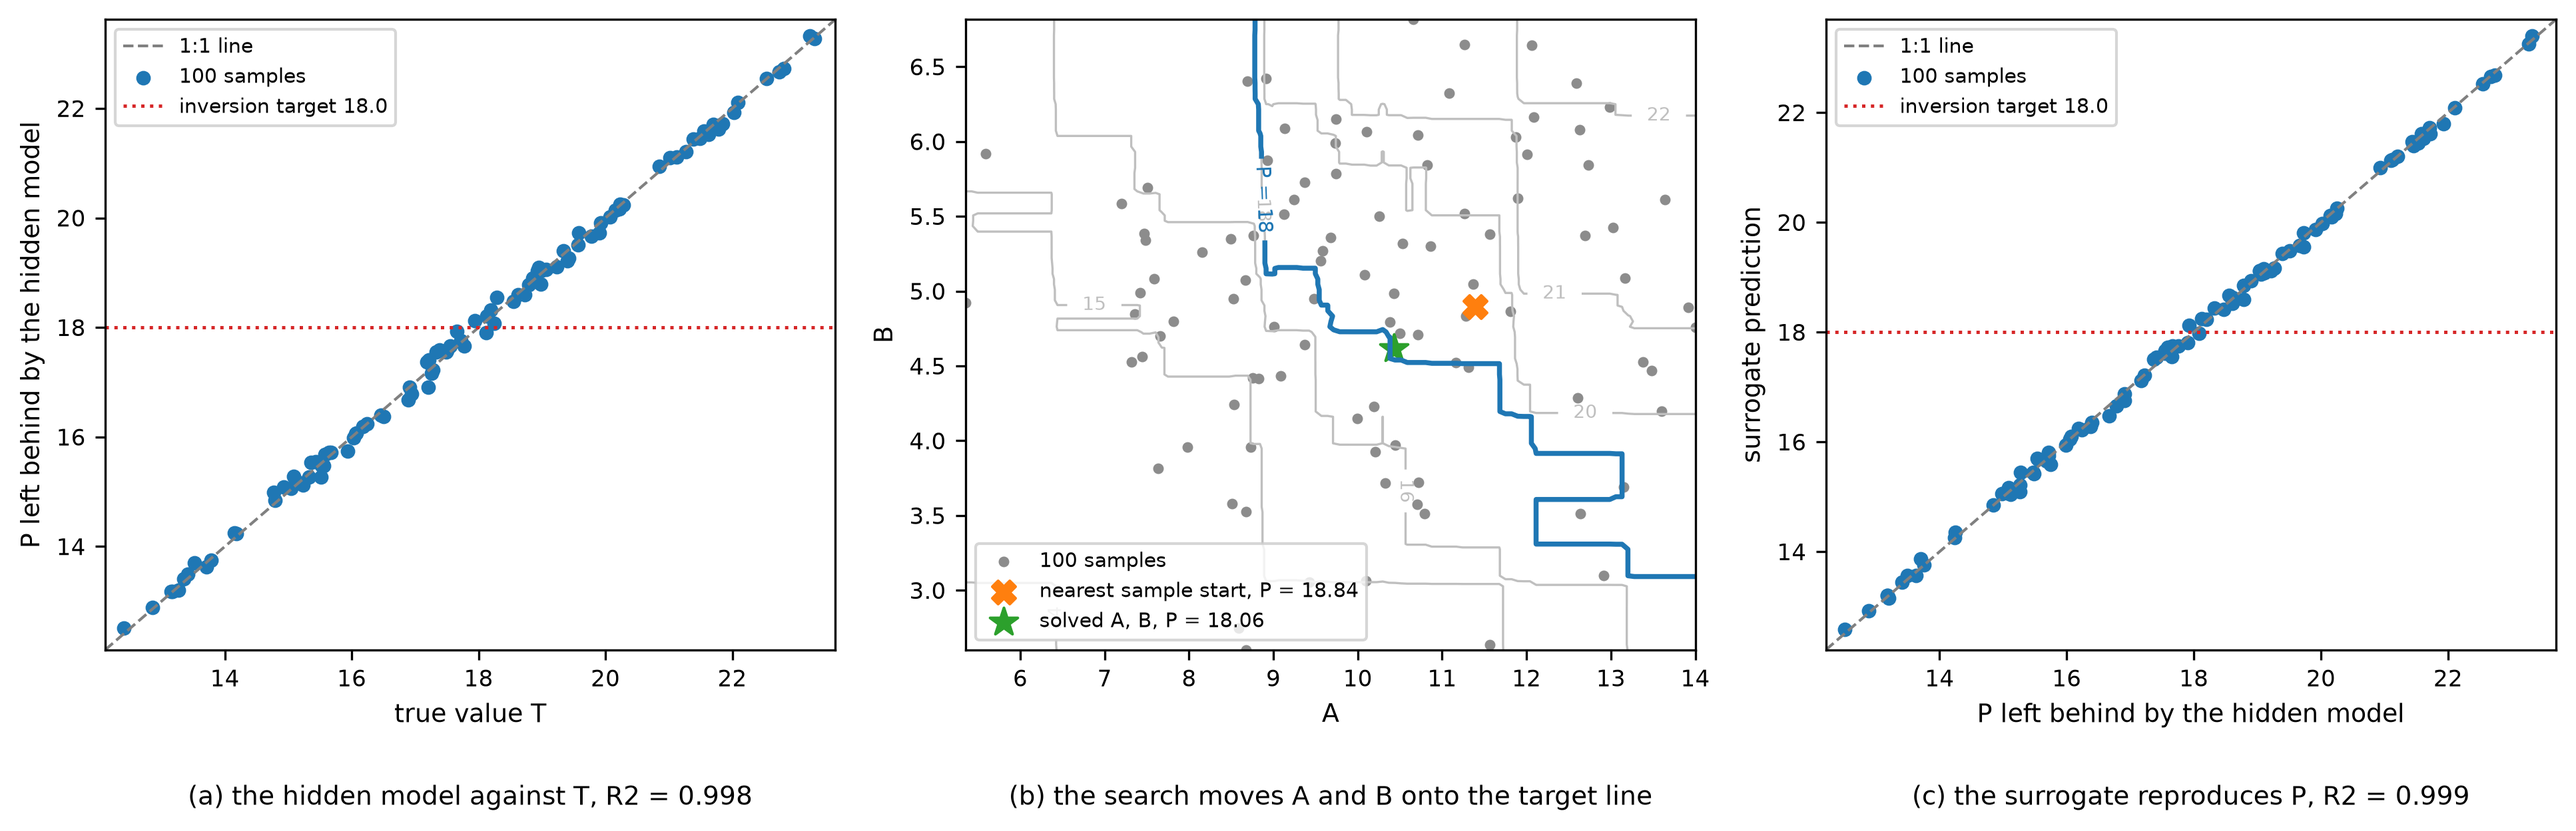
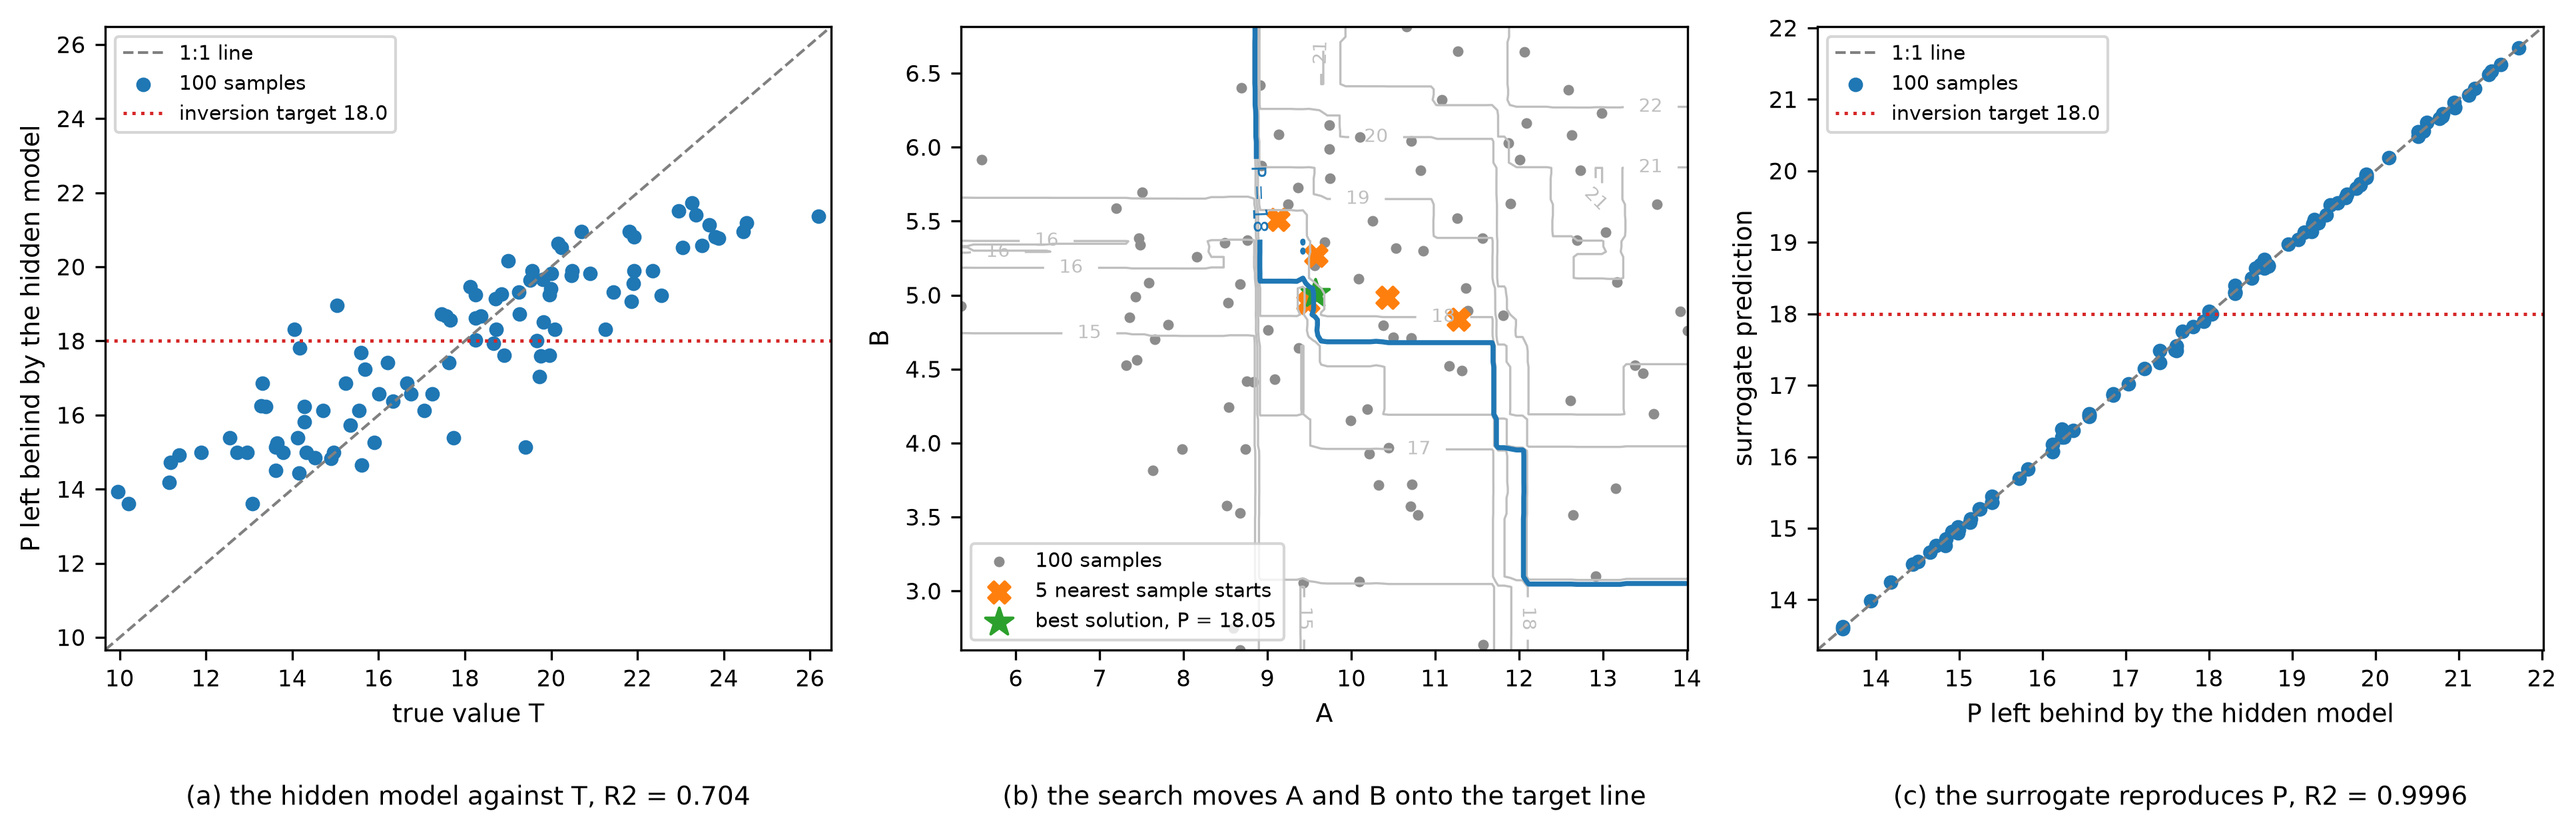
Bring Fig 7 (a) down to R2 = 0.704 and rerun the search
The noise in T goes from 0.6 to 2.5. Noise alone does not move the
number: the default gradient boosting memorises 100 training rows and
still scores 0.96 at any noise level, so the hidden model is also cut
to 20 trees of depth 2 and now fits the signal instead of the noise.
Fig 7 (a) reads 0.704.

P changes, so everything after it was rerun. The single COBYLA start
stalled at P = 18.29: the surrogate is piecewise constant and the start
sat inside one flat box. The search now runs from the 5 nearest samples
and keeps the best, which is what section 4.6 prescribes for exactly
this. The five land on 17.927 to 18.288 and the best gives P = 18.045
at A = 9.569, B = 5.014, inside both limits.

Fig 7 (b) marks all five starts, and (c) prints 4 decimals so 0.9996 no
longer rounds to 1.000.

The published Appendix D block was run and prints what the document
shows. check_terms.py and check_math_emphasis.py both exit 0.

Claude-Session: https://claude.ai/code/session_015q96DiRELdXugaixWZRR1T

diff --git a/Models/Inversion-Problem/inversion_problem_fig.py b/Models/Inversion-Problem/inversion_problem_fig.py
@@ -1,6 +1,6 @@
 """Draw the Appendix B, Appendix C and Appendix D figures of inversion-problem-ko.md."""
 __author__ = 'yRocket'
-__version__ = "0.10.0.2026.9.22"  # Semantic Versioning: Major.Minor.Patch.Date(YYYY.M.D)
+__version__ = "0.11.1.2026.9.22"  # Semantic Versioning: Major.Minor.Patch.Date(YYYY.M.D)
 
 import argparse
 import pathlib
@@ -25,6 +25,7 @@ APPENDIX_D_FEATURES: list = ['A', 'B', 'C', 'D', 'E']
 APPENDIX_D_FREE: list = ['A', 'B']
 APPENDIX_D_ROWS: int = 100
 APPENDIX_D_TARGET: float = 18.0
+APPENDIX_D_STARTS: int = 5
 
 matplotlib.use('Agg')
 
@@ -395,11 +396,13 @@ def build_appendix_d_model() -> tuple:
     c = rng.normal(3.0, 0.8, n)                 # measured context
     d = 0.7 * c + rng.normal(0.0, 0.2, n)       # D follows C
     e = rng.normal(2.0, 0.5, n)
-    t = 0.9 * a + 1.4 * b + 0.6 * c - 0.5 * e + 0.02 * a * b + rng.normal(0.0, 0.6, n)
+    t = 0.9 * a + 1.4 * b + 0.6 * c - 0.5 * e + 0.02 * a * b + rng.normal(0.0, 2.5, n)
     data = pd.DataFrame({'A': a, 'B': b, 'C': c, 'D': d, 'E': e, 'T': t})
 
     features = data[APPENDIX_D_FEATURES].to_numpy()
-    vendor_model = GradientBoostingRegressor(random_state=0).fit(features, data['T'].to_numpy())
+    # shallow and short, so it fits the signal in T instead of memorising the noise
+    vendor_model = GradientBoostingRegressor(random_state=0, n_estimators=20, max_depth=2).fit(
+        features, data['T'].to_numpy())
     data['P'] = vendor_model.predict(features)
     del vendor_model                            # the model still exists, but nothing below reaches it
 
@@ -432,16 +435,17 @@ def fig_7(out_folder: pathlib.Path) -> pathlib.Path:
     def objective(free_values: np.ndarray) -> float:
         return float((surrogate.predict(assemble(free_values)[None, :])[0] - APPENDIX_D_TARGET) ** 2)
 
-    start = data.iloc[int((data['P'] - APPENDIX_D_TARGET).abs().idxmin())]
-    x_start = start[APPENDIX_D_FREE].to_numpy(dtype=float)
-    result = minimize(objective, x0=x_start, method='COBYLA',
-                      constraints=[{'type': 'ineq', 'fun': lambda v: t2_limit - t2(assemble(v))},
-                                   {'type': 'ineq', 'fun': lambda v: spe_limit - spe(assemble(v))}],
-                      options={'maxiter': 3000})
-    x_solved = result.x
+    # a boosted tree is piecewise constant, so one start alone can stall on a flat box
+    starts = data.iloc[(data['P'] - APPENDIX_D_TARGET).abs().nsmallest(APPENDIX_D_STARTS).index]
+    constraints = [{'type': 'ineq', 'fun': lambda v: t2_limit - t2(assemble(v))},
+                   {'type': 'ineq', 'fun': lambda v: spe_limit - spe(assemble(v))}]
+    results = [minimize(objective, x0=row[APPENDIX_D_FREE].to_numpy(dtype=float), method='COBYLA',
+                        constraints=constraints, options={'maxiter': 3000})
+               for _, row in starts.iterrows()]
+    best = min(results, key=lambda r: r.fun)
+    x_starts = starts[APPENDIX_D_FREE].to_numpy(dtype=float)
+    x_solved = best.x
     p_solved = float(surrogate.predict(assemble(x_solved)[None, :])[0])
-    # the start read at the context mean, so both markers sit on the surface the panel draws
-    p_start = float(surrogate.predict(assemble(x_start)[None, :])[0])
 
     # the surrogate's prediction over the A-B plane, with C, D, E held at the context
     grid_a, grid_b = np.mgrid[data['A'].min():data['A'].max():120j,
@@ -476,10 +480,10 @@ def fig_7(out_folder: pathlib.Path) -> pathlib.Path:
                              colors=COLORS[0], linewidths=1.8)
     ax.clabel(target_line, fmt=f'P = {APPENDIX_D_TARGET:.0f}', fontsize=font_size(0.8))
     ax.scatter(data['A'], data['B'], s=8, color='0.55', label='100 samples')
-    ax.scatter([x_start[0]], [x_start[1]], s=70, marker='X', color=COLORS[1],
-               label=f'nearest sample start, P = {p_start:.2f}')
+    ax.scatter(x_starts[:, 0], x_starts[:, 1], s=60, marker='X', color=COLORS[1],
+               label=f'{APPENDIX_D_STARTS} nearest sample starts')
     ax.scatter([x_solved[0]], [x_solved[1]], s=110, marker='*', color=COLORS[2],
-               label=f'solved A, B, P = {p_solved:.2f}')
+               label=f'best solution, P = {p_solved:.2f}')
     ax.set_xlabel('A', fontsize=font_size())
     ax.set_ylabel('B', fontsize=font_size())
     ax.tick_params(labelsize=font_size(0.9))
@@ -501,7 +505,7 @@ def fig_7(out_folder: pathlib.Path) -> pathlib.Path:
     fig.tight_layout(rect=(0.0, 0.08, 1.0, 1.0))
     panel_caption(fig, [axes[0]], f'(a) the hidden model against T, R2 = {r2_hidden:.3f}')
     panel_caption(fig, [axes[1]], '(b) the search moves A and B onto the target line')
-    panel_caption(fig, [axes[2]], f'(c) the surrogate reproduces P, R2 = {r2_surrogate:.3f}')
+    panel_caption(fig, [axes[2]], f'(c) the surrogate reproduces P, R2 = {r2_surrogate:.4f}')
     out_path = out_folder / 'appendix-d-inversion.png'
     out_folder.mkdir(parents=True, exist_ok=True)
     fig.savefig(out_path, dpi=DPI, bbox_inches='tight')
@@ -511,7 +515,8 @@ def fig_7(out_folder: pathlib.Path) -> pathlib.Path:
     sample_path = out_folder / 'appendix-d-samples.csv'
     data.assign(P_surrogate=p_surrogate).to_csv(sample_path, index=False, float_format='%.6f')
     print(f'wrote {out_path}, hidden model R2 on T={r2_hidden:.4f}, surrogate R2 on P={r2_surrogate:.4f}')
-    print(f'  start  A, B = {np.round(x_start, 3)}, P={p_start:.4f}')
+    print('  P from each start = '
+          f'{[round(float(surrogate.predict(assemble(r.x)[None, :])[0]), 3) for r in results]}')
     print(f'  solved A, B = {np.round(x_solved, 3)}, P={p_solved:.4f}, '
           f'T2={t2(assemble(x_solved)):.2f}/{t2_limit:.2f}, '
           f'SPE={spe(assemble(x_solved)):.3f}/{spe_limit:.3f}')

diff --git a/Models/Inversion-Problem/inversion-problem-ko.md b/Models/Inversion-Problem/inversion-problem-ko.md
@@ -1,5 +1,5 @@
 # Inverse Problem and Model Inversion
-Rev. 36 | Created: 2026-08-28 | Updated: 2026-09-22 18:30 CDT
+Rev. 37 | Created: 2026-08-28 | Updated: 2026-09-22 19:00 CDT
 
 학습된 model 은 보통 입력에서 출력을 계산하는 방향으로 쓰인다. 원하는 출력을 먼저 정하고 그것을 만들어 내는 입력을 되찾는 문제가 inverse problem 이고, 이미 학습된 model 을 그 목적에 되돌려 쓰는 방법이 model inversion 이다. 이 문서는 두 용어를 정의하고, 해법을 다섯 축으로 분류한 다음, latent variable model inversion 의 고전적 결과와 model 종류별 inversion 방법을 정리하고, model 을 부를 수 없는 경우와 해의 검증까지 다룬다.
 
@@ -527,7 +527,7 @@ from sklearn.ensemble import GradientBoostingRegressor
 
 FEATURES = ["A", "B", "C", "D", "E"]
 FREE = ["A", "B"]
-N_ROWS, P_TARGET = 100, 18.0
+N_ROWS, P_TARGET, N_STARTS = 100, 18.0, 5
 
 
 def make_dataset(n_rows: int = N_ROWS, seed: int = 0) -> pd.DataFrame:
@@ -538,7 +538,7 @@ def make_dataset(n_rows: int = N_ROWS, seed: int = 0) -> pd.DataFrame:
     c = rng.normal(3.0, 0.8, n_rows)            # measured context
     d = 0.7 * c + rng.normal(0.0, 0.2, n_rows)  # D follows C
     e = rng.normal(2.0, 0.5, n_rows)
-    t = 0.9 * a + 1.4 * b + 0.6 * c - 0.5 * e + 0.02 * a * b + rng.normal(0.0, 0.6, n_rows)
+    t = 0.9 * a + 1.4 * b + 0.6 * c - 0.5 * e + 0.02 * a * b + rng.normal(0.0, 2.5, n_rows)
     return pd.DataFrame({"A": a, "B": b, "C": c, "D": d, "E": e, "T": t})
 
 
@@ -546,7 +546,9 @@ data = make_dataset()
 X = data[FEATURES].to_numpy()
 
 # the model we may call once: it leaves behind the column P, not itself
-vendor_model = GradientBoostingRegressor(random_state=0).fit(X, data["T"].to_numpy())
+# shallow and short, so it fits the signal in T instead of memorising the noise
+vendor_model = GradientBoostingRegressor(random_state=0, n_estimators=20, max_depth=2).fit(
+    X, data["T"].to_numpy())
 data["P"] = vendor_model.predict(X)
 del vendor_model             # the model still exists, but nothing below can reach it
 
@@ -585,27 +587,30 @@ def objective(free_values: np.ndarray) -> float:
     return float((surrogate.predict(assemble(free_values)[None, :])[0] - P_TARGET) ** 2)
 
 
-# 2. nearest-sample lookup supplies the starting A, B
-start = data.iloc[int((data["P"] - P_TARGET).abs().idxmin())]
+# 2. nearest-sample lookup supplies the starting points
+starts = data.iloc[(data["P"] - P_TARGET).abs().nsmallest(N_STARTS).index]
 
-# 3. derivative-free search over A and B, held inside the validity domain
-result = minimize(
-    objective,
-    x0=start[FREE].to_numpy(dtype=float),
-    method="COBYLA",
-    constraints=[
-        {"type": "ineq", "fun": lambda v: t2_limit - t2(assemble(v))},
-        {"type": "ineq", "fun": lambda v: spe_limit - spe(assemble(v))},
-    ],
-    options={"maxiter": 3000},
-)
+# 3. derivative-free search from each start, held inside the validity domain.
+#    A boosted tree is piecewise constant, so one start alone can stall on a flat box.
+constraints = [
+    {"type": "ineq", "fun": lambda v: t2_limit - t2(assemble(v))},
+    {"type": "ineq", "fun": lambda v: spe_limit - spe(assemble(v))},
+]
+results = [
+    minimize(objective, x0=row[FREE].to_numpy(dtype=float), method="COBYLA",
+             constraints=constraints, options={"maxiter": 3000})
+    for _, row in starts.iterrows()
+]
+best = min(results, key=lambda r: r.fun)
 
-solution = assemble(result.x)
+solution = assemble(best.x)
+r2_hidden = 1.0 - float(np.sum((data["T"] - data["P"]) ** 2) / np.sum((data["T"] - data["T"].mean()) ** 2))
 print("rows              :", len(data))
 print("P range           :", round(float(data["P"].min()), 2), "to", round(float(data["P"].max()), 2))
+print("hidden R2 on T    :", round(r2_hidden, 4))
 print("surrogate R2 on P :", round(float(surrogate.score(X, data["P"].to_numpy())), 4))
-print("start A, B        :", np.round(start[FREE].to_numpy(dtype=float), 3))
-print("solved A, B       :", np.round(result.x, 3))
+print("P from each start :", [round(float(surrogate.predict(assemble(r.x)[None, :])[0]), 3) for r in results])
+print("solved A, B       :", np.round(best.x, 3))
 print("P at solution     :", round(float(surrogate.predict(solution[None, :])[0]), 4))
 print("T2                :", round(t2(solution), 2), "limit", round(t2_limit, 2))
 print("SPE               :", round(spe(solution), 3), "limit", round(spe_limit, 3))
@@ -615,18 +620,19 @@ print("SPE               :", round(spe(solution), 3), "limit", round(spe_limit, 
 
 ```text
 rows              : 100
-P range           : 12.51 to 23.33
-surrogate R2 on P : 0.999
-start A, B        : [11.392  4.894]
-solved A, B       : [10.432  4.616]
-P at solution     : 18.0627
-T2                : 0.02 limit 5.99
-SPE               : 0.118 limit 3.678
+P range           : 13.6 to 21.72
+hidden R2 on T    : 0.7038
+surrogate R2 on P : 0.9996
+P from each start : [18.286, 18.045, 18.045, 18.288, 17.927]
+solved A, B       : [9.569 5.014]
+P at solution     : 18.0452
+T2                : 0.09 limit 5.99
+SPE               : 0.007 limit 3.678
 ```
 
 `vendor_model` 은 `P` 열을 남긴 뒤 `del` 로 가려진다. 그 뒤의 계산은 표의 `A`–`E` 와 `P` 만 읽으므로, model 은 그대로 있되 이 code 에서 닿을 수 없는 상황이 된다.
 
-세 방법이 한 줄기로 이어진다. Surrogate 가 `P` 를 $R^{2} = 0.999$ 로 재현하여 뒤집을 대상을 만들고, nearest-sample lookup 이 목표 18.0 에 가장 가까운 행에서 출발점 `A` = 11.392, `B` = 4.894 를 준다. 그 출발점에서 `C`, `D`, `E` 를 평균에 고정한 채 COBYLA 가 `A` = 10.432, `B` = 4.616 으로 옮겨 `P` = 18.063 을 맞춘다.
+세 방법이 한 줄기로 이어진다. Surrogate 가 `P` 를 $R^{2} = 0.9996$ 로 재현하여 뒤집을 대상을 만들고, nearest-sample lookup 이 목표 18.0 에 가장 가까운 다섯 행에서 출발점을 준다. 각 출발점에서 `C`, `D`, `E` 를 평균에 고정한 채 COBYLA 를 돌려 얻은 `P` 는 17.927 에서 18.288 까지 흩어지며, 그중 가장 가까운 `A` = 9.569, `B` = 5.014 가 `P` = 18.045 를 낸다.
 
 이 결과를 Fig 7 에 그린다.
 
@@ -634,12 +640,14 @@ SPE               : 0.118 limit 3.678
 
 Fig 7. Appendix D hidden model against T, the search in the A–B plane, and the surrogate against P
 
-- (a) 는 가려진 model 의 parity plot 이다. 가로축은 참값 `T` 이고 세로축은 그 model 이 남긴 `P` 이며, $R^{2} = 0.998$ 이다. 뒤집을 대상의 정확도가 여기까지이므로 inversion 의 정확도도 이 값을 넘지 못한다.
-- (b) 는 `A`–`B` 평면이다. 회색 등고선은 `C`, `D`, `E` 를 평균에 고정했을 때 surrogate 가 내는 `P` 이고, 굵은 선이 목표 18.0 의 등위선이다. 출발점은 `P` = 18.84 로 그 선 위쪽에 있고, 해는 선 위에 놓인다.
-- (c) 는 surrogate 의 parity plot 이다. 가로축은 가려진 model 이 남긴 `P` 열이고 세로축은 surrogate 의 예측이며, $R^{2} = 0.999$ 로 점이 1:1 선에 붙어 있다.
+- (a) 는 가려진 model 의 parity plot 이다. 가로축은 참값 `T` 이고 세로축은 그 model 이 남긴 `P` 이며, $R^{2} = 0.704$ 이다. 뒤집을 대상의 정확도가 여기까지이므로 inversion 의 정확도도 이 값을 넘지 못한다.
+- (b) 는 `A`–`B` 평면이다. 회색 등고선은 `C`, `D`, `E` 를 평균에 고정했을 때 surrogate 가 내는 `P` 이고, 굵은 선이 목표 18.0 의 등위선이다. 주황 표식 다섯 개가 출발점이고, 별이 그중 목표에 가장 가까운 해이다.
+- (c) 는 surrogate 의 parity plot 이다. 가로축은 가려진 model 이 남긴 `P` 열이고 세로축은 surrogate 의 예측이며, $R^{2} = 0.9996$ 로 점이 1:1 선에 붙어 있다.
 
 (c) 의 $R^{2}$ 는 이 예시가 가려진 model 과 같은 계열인 `GradientBoostingRegressor` 를 surrogate 로 쓴 결과이다. 실제로는 가려진 model 의 계열을 알 수 없어 surrogate 가 다른 계열이 되고, 재현 오차는 이보다 커진다. 해의 오차를 정하는 것이 그 재현 오차이므로, surrogate 를 고른 뒤에는 (c) 같은 그림으로 그 크기부터 확인한다.
 
 등고선이 계단 모양이다. Tree 하나는 입력 공간을 문턱값으로 잘라 상자로 나누고 상자마다 저장된 값 하나를 돌려주며, gradient boosting 은 그런 tree 의 값을 더한다. 그래서 예측은 문턱값을 넘을 때만 바뀌고 문턱값 사이에서는 상수이며, 4.3 이 말한 대로 gradient 가 0 이거나 정의되지 않아 탐색으로 푼다.
 
-해는 유효 영역 안에 있다. $T^{2}$ 는 0.02 로 상한 5.99 보다, SPE 는 0.118 로 상한 3.678 보다 작으므로, 5 에서 말한 대로 model 접근 없이 $\mathbf{X}$ 만으로 정한 제약이 그대로 작동한다. 다만 `P` 는 surrogate 의 예측이므로, 가려진 model 이 이 조건에서 실제로 낼 값과는 (c) 가 보이는 재현 오차만큼 벌어질 수 있다.
+출발점을 다섯 개 쓰는 이유도 그 계단에 있다. 한 상자 안에서는 목적 함수가 평평해 탐색이 움직일 방향을 찾지 못하고 그 자리에서 멈추므로, 한 출발점만 쓰면 17.927 이나 18.288 처럼 목표에서 벗어난 자리에 갇힌다. 4.6 이 말한 대로 여러 시작점에서 반복하고 그중 가장 좋은 해를 고른다.
+
+해는 유효 영역 안에 있다. $T^{2}$ 는 0.09 로 상한 5.99 보다, SPE 는 0.007 로 상한 3.678 보다 작으므로, 5 에서 말한 대로 model 접근 없이 $\mathbf{X}$ 만으로 정한 제약이 그대로 작동한다. 다만 `P` 는 surrogate 의 예측이므로, 가려진 model 이 이 조건에서 실제로 낼 값과는 (c) 가 보이는 재현 오차만큼 벌어질 수 있다.
